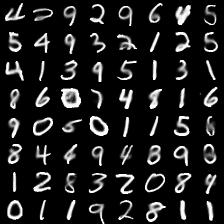
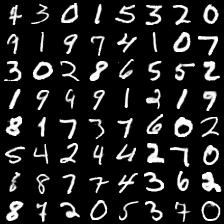
better mnist sampels

Changed region(s): [[0.0, 0.0, 1.0, 1.0]]

diff --git a/np2img.py b/np2img.py
@@ -5,7 +5,8 @@ import sys
 fname = sys.argv[1]
 mb = np.load(fname).squeeze()
 n = int(np.sqrt(len(mb)))
-mbsz, xdim, ydim, channel = mb.shape
+mbsz, xdim, ydim = mb.shape[:3]
+channel = mb.shape[3] if len(mb.shape) == 4 else 1
 mode = 'RGB' if channel == 3 else 'L'
 bigimg = Image.new(mode, (xdim*n, ydim*n))
 
